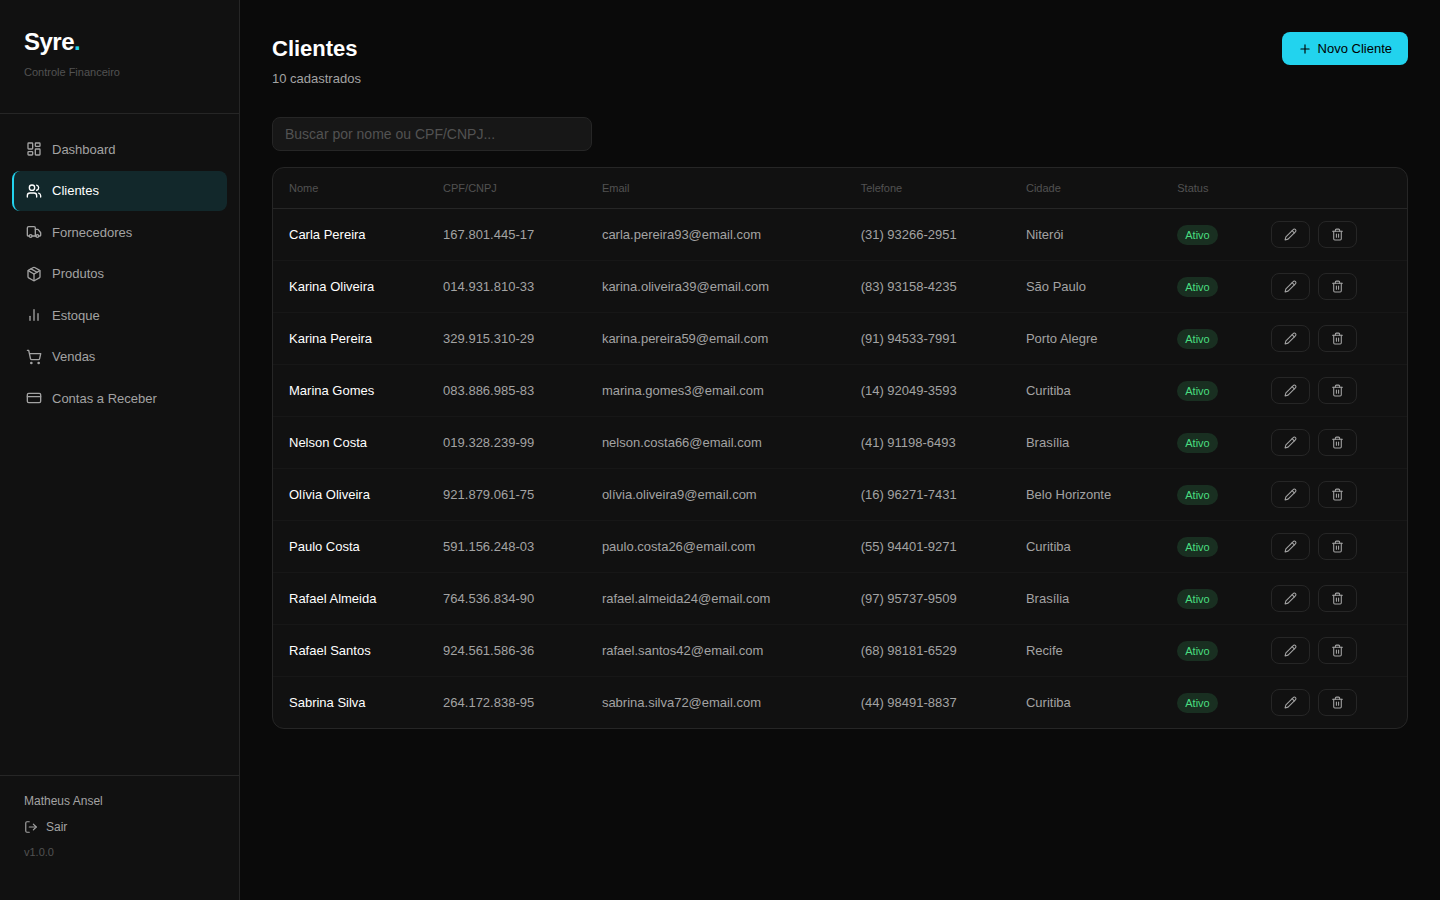
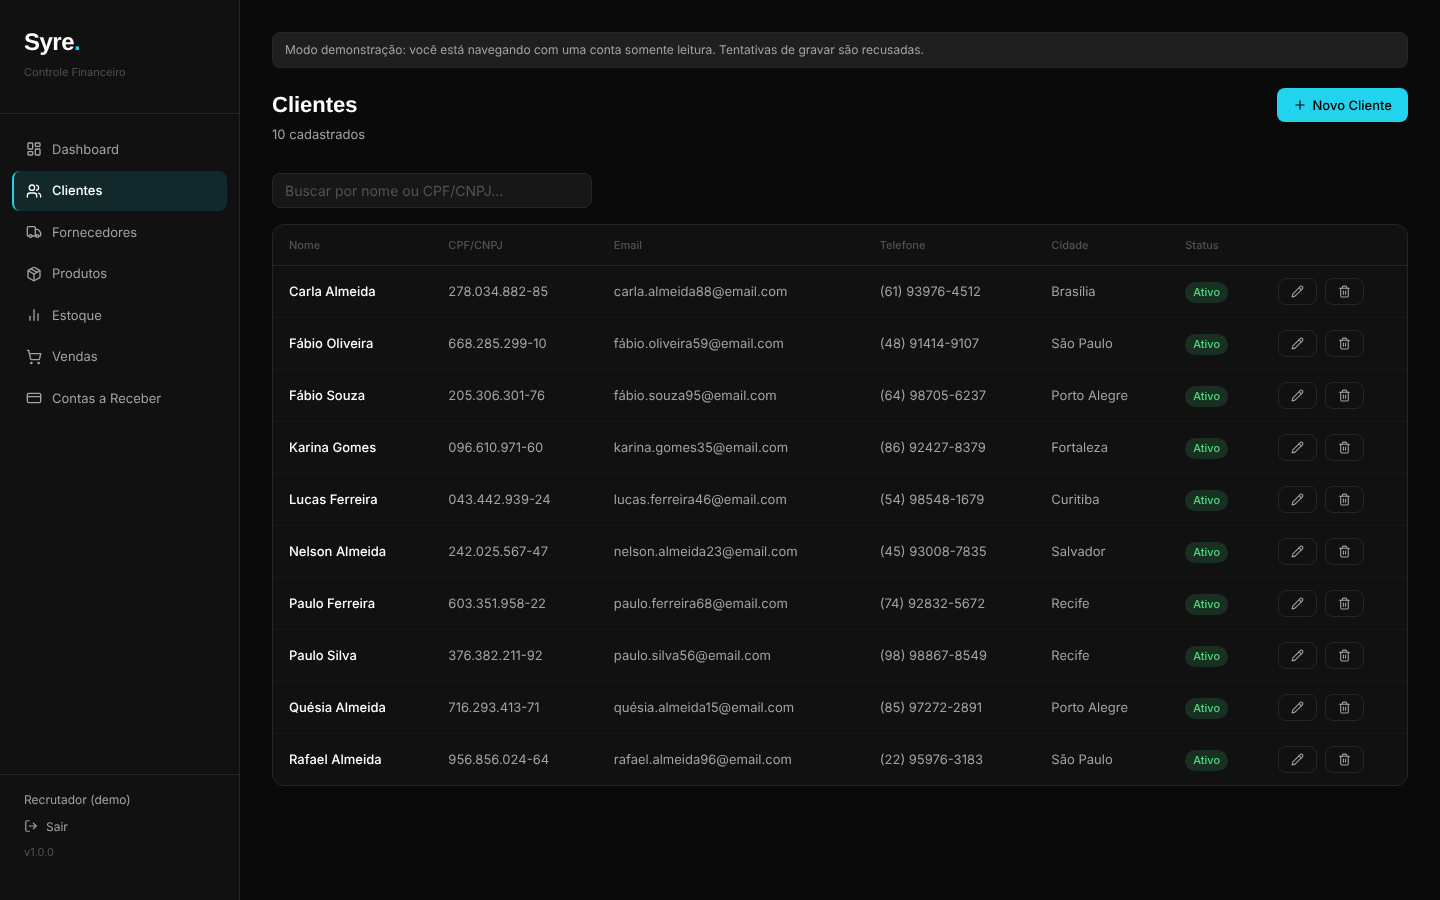
docs: GIF de demonstração, novas capturas e capa do repositório
Capturas refeitas com 6 meses de dados fictícios (dashboard, vendas,
contas a receber, produtos, estoque, login) e GIF do fluxo com o acesso demo.

Corrige no frontend a exibição de valores NUMERIC que chegam como texto:
moeda sem formato (263.70), quantidades como 4.000 e o status de estoque
invertido (comparação entre textos). Meses do gráfico em português.

diff --git a/frontend/src/pages/Estoque.tsx b/frontend/src/pages/Estoque.tsx
@@ -2,6 +2,7 @@ import { useEffect, useState } from 'react';
 import { ArrowDownCircle, ArrowUpCircle, AlertTriangle } from 'lucide-react';
 import { api } from '../lib/api';
 import { Produto } from '../types';
+import { fmt } from '../lib/format';
 import {
   Button, PageHeader, Card, EmptyState,
   Modal, FormGroup, Badge,
@@ -46,9 +47,9 @@ export default function Estoque() {
   };
 
   const estoqueColor = (p: Produto) =>
-    p.estoque_atual <= 0 ? 'red' : p.estoque_atual <= p.estoque_minimo ? 'yellow' : 'green';
+    Number(p.estoque_atual) <= 0 ? 'red' : Number(p.estoque_atual) <= Number(p.estoque_minimo) ? 'yellow' : 'green';
 
-  const baixoEstoque = produtos.filter(p => p.estoque_atual <= p.estoque_minimo).length;
+  const baixoEstoque = produtos.filter(p => Number(p.estoque_atual) <= Number(p.estoque_minimo)).length;
 
   return (
     <div>
@@ -97,11 +98,11 @@ export default function Estoque() {
                       {p.codigo && <span style={{ fontSize: 11, color: 'var(--gray-600)', marginLeft: 8, fontFamily: 'monospace' }}>{p.codigo}</span>}
                     </td>
                     <td style={{ padding: '12px 16px', fontSize: 13, color: 'var(--gray-400)' }}>{p.unidade}</td>
-                    <td style={{ padding: '12px 16px', fontSize: 15, fontWeight: 600 }}>{Number(p.estoque_atual).toFixed(3)}</td>
-                    <td style={{ padding: '12px 16px', fontSize: 13, color: 'var(--gray-600)' }}>{Number(p.estoque_minimo).toFixed(3)}</td>
+                    <td style={{ padding: '12px 16px', fontSize: 15, fontWeight: 600 }}>{fmt.qty(p.estoque_atual)}</td>
+                    <td style={{ padding: '12px 16px', fontSize: 13, color: 'var(--gray-600)' }}>{fmt.qty(p.estoque_minimo)}</td>
                     <td style={{ padding: '12px 16px' }}>
                       <Badge
-                        label={p.estoque_atual <= 0 ? 'Sem estoque' : p.estoque_atual <= p.estoque_minimo ? 'Baixo' : 'OK'}
+                        label={Number(p.estoque_atual) <= 0 ? 'Sem estoque' : Number(p.estoque_atual) <= Number(p.estoque_minimo) ? 'Baixo' : 'OK'}
                         color={estoqueColor(p)}
                       />
                     </td>
@@ -143,7 +144,7 @@ export default function Estoque() {
               background: 'var(--graphite)', borderRadius: 8, padding: '12px 16px',
               fontSize: 13, color: 'var(--gray-400)',
             }}>
-              Estoque atual: <strong style={{ color: 'var(--white)' }}>{Number(movModal.estoque_atual).toFixed(3)} {movModal.unidade}</strong>
+              Estoque atual: <strong style={{ color: 'var(--white)' }}>{fmt.qty(movModal.estoque_atual)} {movModal.unidade}</strong>
             </div>
           </div>
           <div style={{ display: 'flex', justifyContent: 'flex-end', gap: 10, marginTop: 24 }}>
@@ -171,7 +172,7 @@ export default function Estoque() {
                   }
                   <div style={{ flex: 1 }}>
                     <p style={{ fontSize: 13, fontWeight: 500 }}>
-                      {m.tipo === 'entrada' ? '+' : '-'}{Number(m.quantidade).toFixed(3)} {histModal.unidade}
+                      {m.tipo === 'entrada' ? '+' : '-'}{fmt.qty(m.quantidade)} {histModal.unidade}
                       {m.motivo && <span style={{ color: 'var(--gray-400)', fontWeight: 400 }}> — {m.motivo}</span>}
                     </p>
                     <p style={{ fontSize: 11, color: 'var(--gray-600)', marginTop: 2 }}>

diff --git a/frontend/src/pages/Dashboard.tsx b/frontend/src/pages/Dashboard.tsx
@@ -5,6 +5,22 @@ import { DashboardData } from '../types';
 import { Card, StatCard, PageHeader } from '../components/ui';
 import { fmt } from '../lib/format';
 
+// A API devolve o mês como 'Mon/YY' (abreviação em inglês do PostgreSQL); exibe em português.
+const MESES_PT: Record<string, string> = {
+  Jan: 'Jan', Feb: 'Fev', Mar: 'Mar', Apr: 'Abr', May: 'Mai', Jun: 'Jun',
+  Jul: 'Jul', Aug: 'Ago', Sep: 'Set', Oct: 'Out', Nov: 'Nov', Dec: 'Dez',
+};
+const mesPt = (mes: string) => {
+  const [abrev, ano] = mes.split('/');
+  return ano ? `${MESES_PT[abrev] ?? abrev}/${ano}` : mes;
+};
+
+// Eixo Y: R$ 500, R$ 1,5k, R$ 12k — sem repetir rótulo por arredondamento.
+const eixoReais = (v: number) =>
+  v >= 1000
+    ? `R$ ${(v / 1000).toLocaleString('pt-BR', { maximumFractionDigits: v % 1000 === 0 ? 0 : 1 })}k`
+    : `R$ ${v}`;
+
 export default function Dashboard() {
   const [data, setData] = useState<DashboardData | null>(null);
 
@@ -42,12 +58,15 @@ export default function Dashboard() {
           <ResponsiveContainer width="100%" height={220}>
             <BarChart data={data.vendas_por_mes} barSize={28}>
               <CartesianGrid strokeDasharray="3 3" stroke="#262626" />
-              <XAxis dataKey="mes" tick={{ fill: '#A3A3A3', fontSize: 11 }} axisLine={false} tickLine={false} />
-              <YAxis tick={{ fill: '#A3A3A3', fontSize: 11 }} axisLine={false} tickLine={false}
-                tickFormatter={(v) => `R$${(v / 1000).toFixed(0)}k`} />
+              <XAxis dataKey="mes" tick={{ fill: '#A3A3A3', fontSize: 11 }} axisLine={false} tickLine={false}
+                tickFormatter={mesPt} />
+              <YAxis tick={{ fill: '#A3A3A3', fontSize: 11 }} axisLine={false} tickLine={false} width={64}
+                tickFormatter={eixoReais} />
               <Tooltip
                 contentStyle={{ background: '#111', border: '1px solid #262626', borderRadius: 8 }}
-                formatter={(v: number) => [fmt.currency(v), 'Total']}
+                cursor={{ fill: 'rgba(255,255,255,0.04)' }}
+                formatter={(v: number | string) => [fmt.currency(Number(v)), 'Total']}
+                labelFormatter={(l: string) => mesPt(l)}
               />
               <Bar dataKey="total" fill="#22D3EE" radius={[4, 4, 0, 0]} />
             </BarChart>
@@ -74,7 +93,7 @@ export default function Dashboard() {
                 </span>
                 <div style={{ flex: 1 }}>
                   <p style={{ fontSize: 13, fontWeight: 500 }}>{p.nome}</p>
-                  <p style={{ fontSize: 11, color: 'var(--gray-600)' }}>{p.quantidade} un.</p>
+                  <p style={{ fontSize: 11, color: 'var(--gray-600)' }}>{fmt.qty(p.quantidade)} un.</p>
                 </div>
               </div>
             ))}

diff --git a/frontend/src/pages/Produtos.tsx b/frontend/src/pages/Produtos.tsx
@@ -64,7 +64,7 @@ export default function Produtos() {
     setForm(p => ({ ...p, [k]: e.target.value }));
 
   const estoqueColor = (p: Produto) =>
-    p.estoque_atual <= 0 ? 'red' : p.estoque_atual <= p.estoque_minimo ? 'yellow' : 'green';
+    Number(p.estoque_atual) <= 0 ? 'red' : Number(p.estoque_atual) <= Number(p.estoque_minimo) ? 'yellow' : 'green';
 
   return (
     <div>
@@ -101,9 +101,9 @@ export default function Produtos() {
                     <td style={{ padding: '12px 16px', fontSize: 13, color: 'var(--gray-400)' }}>{p.categoria || '—'}</td>
                     <td style={{ padding: '12px 16px', fontSize: 13, color: 'var(--accent)' }}>{fmt.currency(p.preco_venda)}</td>
                     <td style={{ padding: '12px 16px' }}>
-                      <Badge label={`${p.estoque_atual} ${p.unidade}`} color={estoqueColor(p)} />
+                      <Badge label={`${fmt.qty(p.estoque_atual)} ${p.unidade}`} color={estoqueColor(p)} />
                     </td>
-                    <td style={{ padding: '12px 16px', fontSize: 13, color: 'var(--gray-600)' }}>{p.estoque_minimo} {p.unidade}</td>
+                    <td style={{ padding: '12px 16px', fontSize: 13, color: 'var(--gray-600)' }}>{fmt.qty(p.estoque_minimo)} {p.unidade}</td>
                     <td style={{ padding: '12px 16px', fontSize: 13, color: 'var(--gray-400)' }}>{p.fornecedor_nome || '—'}</td>
                     <td style={{ padding: '12px 16px' }}>
                       <div style={{ display: 'flex', gap: 8 }}>

diff --git a/frontend/src/pages/Vendas.tsx b/frontend/src/pages/Vendas.tsx
@@ -189,7 +189,7 @@ export default function Vendas() {
                       <div style={{ flex: 1 }}>
                         <p style={{ fontSize: 13, fontWeight: 500 }}>{item.produto_nome}</p>
                         <p style={{ fontSize: 11, color: 'var(--gray-600)' }}>
-                          {item.quantidade} {item.unidade} × {fmt.currency(item.preco_unit)}
+                          {fmt.qty(item.quantidade)} {item.unidade} × {fmt.currency(item.preco_unit)}
                         </p>
                       </div>
                       <span style={{ fontSize: 13, color: 'var(--accent)' }}>{fmt.currency(item.subtotal)}</span>
@@ -245,7 +245,7 @@ export default function Vendas() {
                   <div style={{ flex: 1 }}>
                     <p style={{ fontSize: 13, fontWeight: 500 }}>{item.produto_nome}</p>
                     <p style={{ fontSize: 11, color: 'var(--gray-600)' }}>
-                      {item.quantidade} {item.unidade} × {fmt.currency(item.preco_unit)}
+                      {fmt.qty(item.quantidade)} {item.unidade} × {fmt.currency(item.preco_unit)}
                     </p>
                   </div>
                   <span style={{ color: 'var(--accent)', fontSize: 13 }}>{fmt.currency(item.subtotal)}</span>

diff --git a/frontend/tests/unit/format.test.ts b/frontend/tests/unit/format.test.ts
@@ -1,0 +1,24 @@
+import { describe, it, expect } from 'vitest';
+import { fmt } from '../../src/lib/format';
+
+// O PostgreSQL devolve colunas NUMERIC como texto; a formatação precisa aceitar os dois.
+describe('fmt.currency', () => {
+  it('formata número em reais', () => {
+    expect(fmt.currency(1234.5)).toMatch(/R\$\s1\.234,50/);
+  });
+
+  it('formata texto vindo da API do mesmo jeito', () => {
+    expect(fmt.currency('263.70')).toMatch(/R\$\s263,70/);
+  });
+});
+
+describe('fmt.qty', () => {
+  it('não mostra casas decimais sobrando', () => {
+    expect(fmt.qty('4.000')).toBe('4');
+    expect(fmt.qty('2.500')).toBe('2,5');
+  });
+
+  it('usa separador de milhar brasileiro', () => {
+    expect(fmt.qty(1500)).toBe('1.500');
+  });
+});

diff --git a/frontend/src/lib/format.ts b/frontend/src/lib/format.ts
@@ -1,6 +1,10 @@
 export const fmt = {
-  currency: (v: number) =>
-    v.toLocaleString('pt-BR', { style: 'currency', currency: 'BRL' }),
+  // O PostgreSQL devolve NUMERIC como texto ("263.70"); converte antes de formatar.
+  currency: (v: number | string) =>
+    Number(v).toLocaleString('pt-BR', { style: 'currency', currency: 'BRL' }),
+  // Quantidades: 4 -> "4", 2.5 -> "2,5", 1500 -> "1.500" (até 3 casas, sem zeros sobrando).
+  qty: (v: number | string) =>
+    Number(v).toLocaleString('pt-BR', { maximumFractionDigits: 3 }),
   date: (v: string) =>
     new Date(v).toLocaleDateString('pt-BR'),
   dateInput: (v: string) =>

diff --git a/README.md b/README.md
@@ -15,24 +15,30 @@
 [![Docker](https://img.shields.io/badge/Docker-compose-2496ED?style=flat-square&logo=docker&logoColor=white)](#início-rápido-com-docker)
 [![OpenAPI](https://img.shields.io/badge/OpenAPI-3.0-6BA539?style=flat-square&logo=openapiinitiative&logoColor=white)](#documentação-da-api)
 
-[Demo ao vivo](https://syre-six.vercel.app) · [Portfólio](https://matheusansel-dev.vercel.app) · [LinkedIn](https://linkedin.com/in/matheusansel)
+**[Abrir a demo ao vivo](https://syre-six.vercel.app)** · [Portfólio](https://matheusansel-dev.vercel.app) · [LinkedIn](https://linkedin.com/in/matheusansel)
+
+<a href="https://syre-six.vercel.app"><img src="docs/screenshots/demo.gif" alt="Demonstração do Syre: login com o acesso demo, dashboard com vendas dos últimos 6 meses, vendas, contas a receber, produtos e clientes" width="860"/></a>
 
 </div>
 
 ---
 
-> A demo exige login (é a própria autenticação JWT em ação) e usa dados fictícios. Na tela de login, o botão **Preencher com acesso demo** preenche as credenciais de uma conta somente leitura (veja [Conta de demonstração](#conta-de-demonstração-para-recrutadores)).
+> A demo exige login (é a própria autenticação JWT em ação) e usa dados fictícios. Na tela de login, o botão **Preencher com acesso demo** preenche as credenciais de uma conta somente leitura (veja [Conta de demonstração](#conta-de-demonstração-para-recrutadores)). Hospedada em plano gratuito: o primeiro acesso pode levar até um minuto enquanto a API acorda.
 
 ## Screenshots
 
 <table>
 <tr>
-<td><img src="docs/screenshots/dashboard.png" alt="Dashboard com KPIs e gráfico de vendas" width="420"/></td>
-<td><img src="docs/screenshots/clientes.png" alt="Listagem de clientes" width="420"/></td>
+<td><img src="docs/screenshots/dashboard.png" alt="Dashboard com KPIs, vendas dos últimos 6 meses e produtos mais vendidos" width="420"/><br/><sub>Dashboard: KPIs do mês, vendas dos últimos 6 meses e top produtos</sub></td>
+<td><img src="docs/screenshots/contas-receber.png" alt="Contas a receber com filtros por status e recebimento parcial" width="420"/><br/><sub>Contas a receber: status, vencidas em destaque e recebimento parcial</sub></td>
 </tr>
 <tr>
-<td><img src="docs/screenshots/produtos.png" alt="Listagem de produtos com estoque" width="420"/></td>
-<td><img src="docs/screenshots/vendas.png" alt="Listagem de vendas por status" width="420"/></td>
+<td><img src="docs/screenshots/vendas.png" alt="Listagem de vendas por status" width="420"/><br/><sub>Vendas por status, com baixa automática no estoque</sub></td>
+<td><img src="docs/screenshots/produtos.png" alt="Listagem de produtos com estoque e alerta de estoque mínimo" width="420"/><br/><sub>Produtos com estoque atual e mínimo</sub></td>
+</tr>
+<tr>
+<td><img src="docs/screenshots/estoque.png" alt="Movimentações de estoque de entrada e saída" width="420"/><br/><sub>Movimentações de estoque (entrada e saída)</sub></td>
+<td><img src="docs/screenshots/login.png" alt="Tela de login com o botão de acesso demo" width="420"/><br/><sub>Login com JWT e botão de acesso demo somente leitura</sub></td>
 </tr>
 </table>
 
